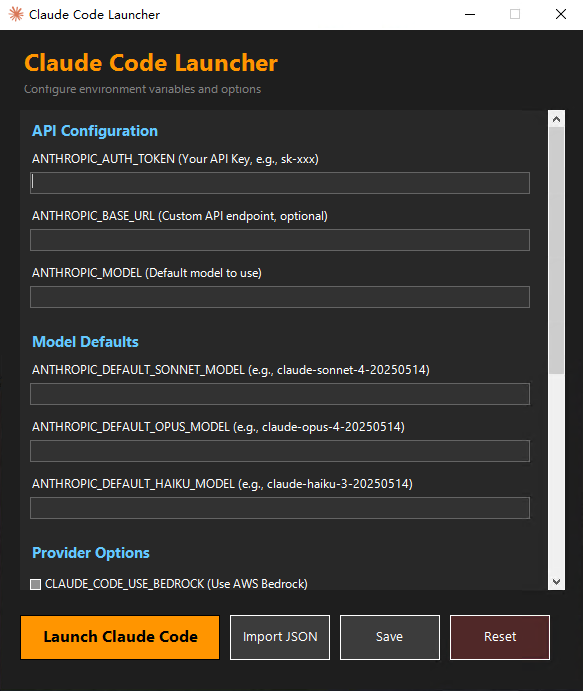
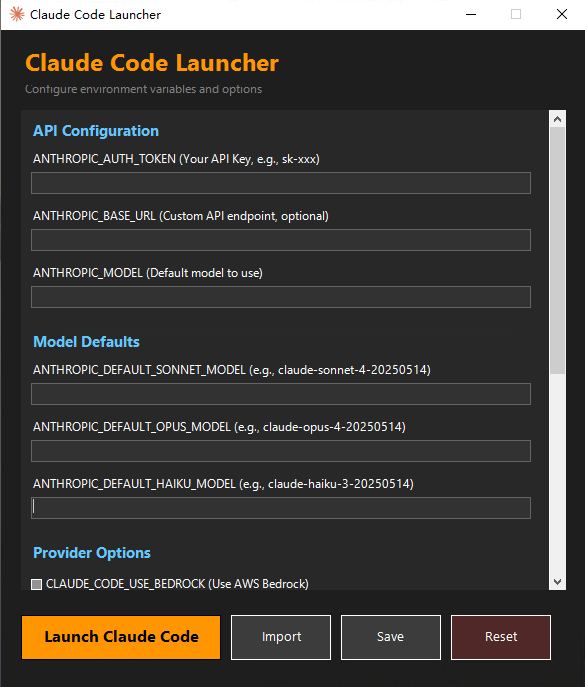
docs: Update README and screenshot
- Update environment variables documentation
- Add JSON import section
- Update project structure
- Add FAQ for claude.cmd not found
- Update screenshot

diff --git a/README.md b/README.md
@@ -8,6 +8,8 @@
 - **图形化启动器**: 无需命令行，通过 GUI 配置和启动 Claude Code
 - **配置持久化**: 所有设置自动保存，下次启动自动加载
 - **完整依赖**: 无需预装任何环境，开箱即用
+- **快速安装**: 使用 7z 压缩，安装速度更快
+- **JSON 导入**: 支持从 JSON 文件导入配置
 
 ## 包含组件
 
@@ -21,7 +23,7 @@
 
 ### 方式一：下载预编译安装包
 
-从 [Releases](../../releases) 页面下载最新的 `ClaudeCodeSetup.exe`，双击运行即可。
+从 [Releases](../../releases) 页面下载最新的 `ClaudeCodeSetup-vX.X.X.exe`，双击运行即可。
 
 ### 方式二：自行编译
 
@@ -58,11 +60,16 @@ makensis installer.nsi
 #### API 配置
 | 选项 | 说明 |
 |------|------|
-| `ANTHROPIC_API_KEY` | Anthropic API 密钥 (必填) |
-| `ANTHROPIC_MODEL` | 使用的模型 (如 claude-sonnet-4-20250514) |
+| `ANTHROPIC_AUTH_TOKEN` | Anthropic API 密钥 (必填，如 sk-xxx) |
 | `ANTHROPIC_BASE_URL` | 自定义 API 端点 |
-| `ANTHROPIC_TIMEOUT` | 请求超时时间 (毫秒) |
-| `ANTHROPIC_MAX_TOKENS` | 最大 token 数 |
+| `ANTHROPIC_MODEL` | 默认使用的模型 |
+
+#### 模型默认值
+| 选项 | 说明 |
+|------|------|
+| `ANTHROPIC_DEFAULT_SONNET_MODEL` | Sonnet 模型 (如 claude-sonnet-4-20250514) |
+| `ANTHROPIC_DEFAULT_OPUS_MODEL` | Opus 模型 (如 claude-opus-4-20250514) |
+| `ANTHROPIC_DEFAULT_HAIKU_MODEL` | Haiku 模型 (如 claude-haiku-3-20250514) |
 
 #### 提供商选项
 | 选项 | 说明 |
@@ -82,6 +89,29 @@ makensis installer.nsi
 | `HTTP_PROXY` | HTTP 代理地址 |
 | `HTTPS_PROXY` | HTTPS 代理地址 |
 
+### 导入配置
+
+点击 **Import** 按钮可以从 JSON 文件导入配置，支持以下格式：
+
+```json
+{
+  "ANTHROPIC_AUTH_TOKEN": "sk-xxx",
+  "ANTHROPIC_BASE_URL": "",
+  "ANTHROPIC_MODEL": ""
+}
+```
+
+或带 `env` 包装的格式：
+
+```json
+{
+  "env": {
+    "ANTHROPIC_AUTH_TOKEN": "sk-xxx",
+    "ANTHROPIC_BASE_URL": ""
+  }
+}
+```
+
 ### 配置文件位置
 
 所有设置保存在: `%APPDATA%\ClaudeCode\config.json`
@@ -91,9 +121,8 @@ makensis installer.nsi
 本项目配置了 GitHub Actions 自动构建工作流：
 
 - **触发条件**:
-  - 推送到 `main` 或 `master` 分支且修改了 `windows/` 目录
+  - 推送 `v*` 格式的 tag 时自动构建并发布 Release
   - 手动触发 (workflow_dispatch)
-  - 创建 tag 时自动发布 Release
 
 - **手动触发参数**:
   - `node_version`: 要打包的 Node.js 版本
@@ -102,11 +131,11 @@ makensis installer.nsi
 ### 创建新版本发布
 
 ```bash
-git tag v1.0.0
+git tag -a v1.0.0 -m "v1.0.0 - Release notes"
 git push origin v1.0.0
 ```
 
-这将自动触发构建并创建 Release。
+这将自动触发构建并创建 Release，安装包文件名包含版本号。
 
 ## 项目结构
 
@@ -114,19 +143,22 @@ git push origin v1.0.0
 claude-starter/
 ├── .github/
 │   └── workflows/
-│       └── build.yml          # GitHub Actions 工作流
+│       └── build.yml              # GitHub Actions 工作流
+├── docs/
+│   └── launcher-screenshot.png    # 启动器截图
 ├── windows/
 │   ├── installer/
 │   │   ├── nsis/
-│   │   │   └── installer.nsi  # NSIS 安装脚本
+│   │   │   └── installer.nsi      # NSIS 安装脚本
 │   │   └── resources/
-│   │       ├── ClaudeCodeLauncher.bat
-│   │       ├── LICENSE.txt
+│   │       ├── claude.ico         # 应用图标
+│   │       ├── ClaudeCodeLauncher.vbs  # VBS 启动器 (隐藏窗口)
+│   │       ├── LaunchClaude.bat   # 批处理启动器
 │   │       └── README.txt
 │   ├── launcher/
-│   │   └── ClaudeCodeLauncher.ps1  # PowerShell GUI 启动器
+│   │   └── ClaudeCodeLauncher.ps1 # PowerShell GUI 启动器
 │   └── scripts/
-│       └── download-deps.ps1  # 依赖下载脚本
+│       └── download-deps.ps1      # 依赖下载脚本
 └── README.md
 ```
 
@@ -164,6 +196,10 @@ A: Windows 10 64-bit 及以上版本
 ### Q: 配置保存在哪里？
 
 A: `%APPDATA%\ClaudeCode\config.json`
+
+### Q: 启动时找不到 claude.cmd？
+
+A: 确保安装完成，如果仍有问题，启动器会自动使用 npx 回退方式运行。
 
 ## License
 
